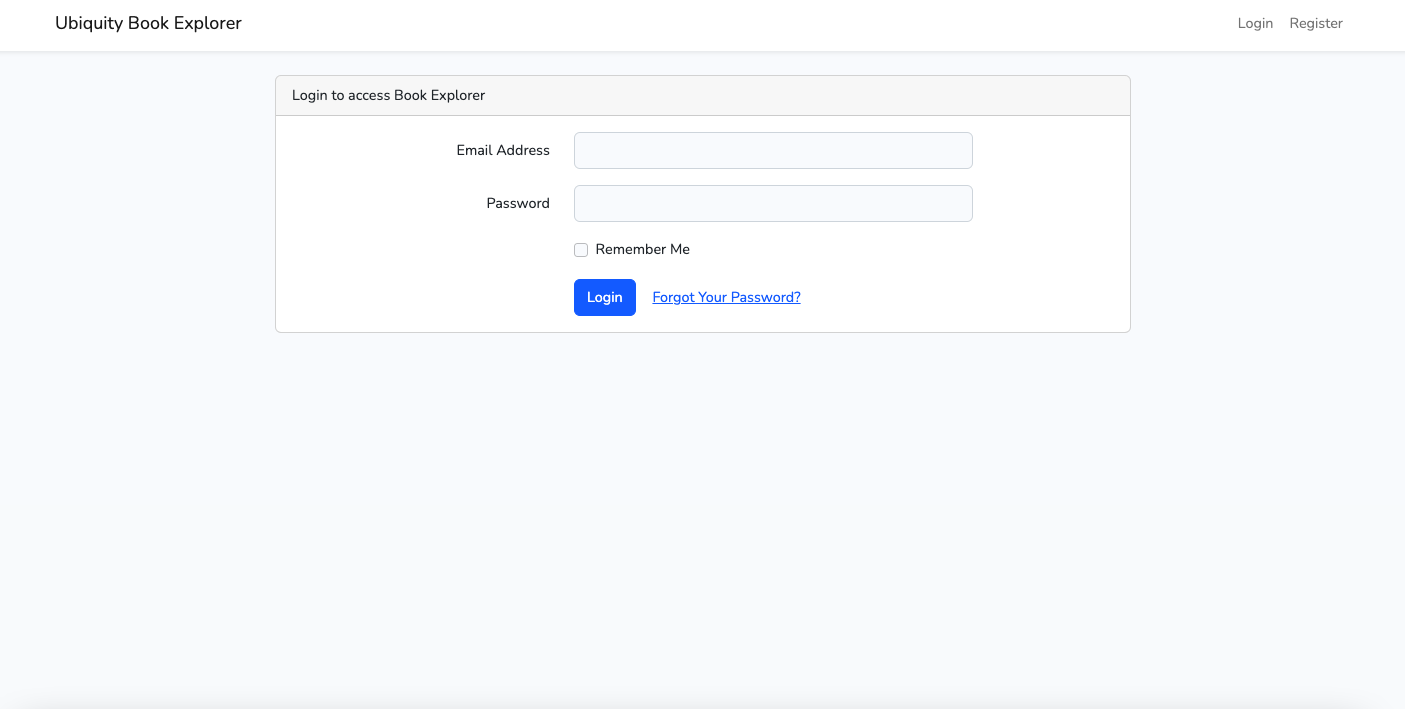
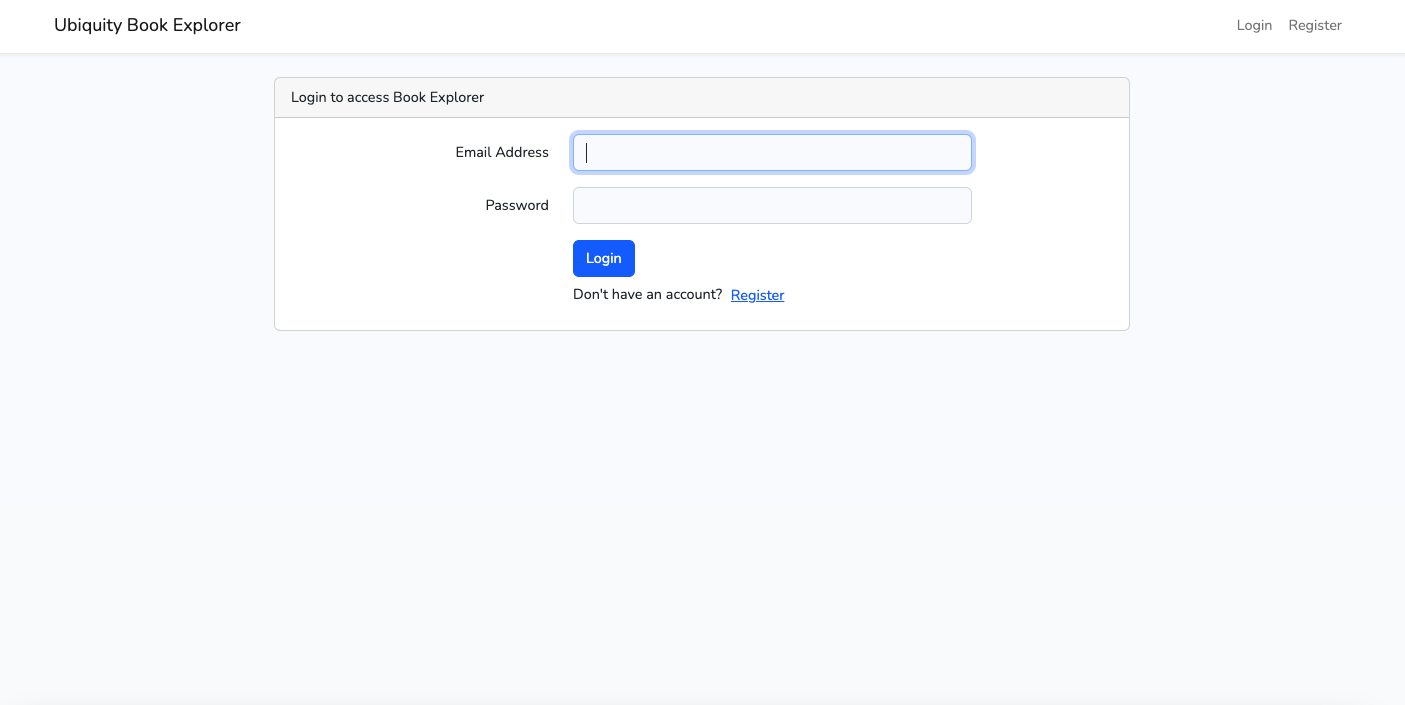
login and register with useful links

diff --git a/resources/views/auth/login.blade.php b/resources/views/auth/login.blade.php
@@ -39,29 +39,19 @@
                             </div>
                         </div>
 
-                        <div class="row mb-3">
-                            <div class="col-md-6 offset-md-4">
-                                <div class="form-check">
-                                    <input class="form-check-input" type="checkbox" name="remember" id="remember" {{ old('remember') ? 'checked' : '' }}>
-
-                                    <label class="form-check-label" for="remember">
-                                        {{ __('Remember Me') }}
-                                    </label>
-                                </div>
-                            </div>
-                        </div>
-
                         <div class="row mb-0">
                             <div class="col-md-8 offset-md-4">
                                 <button type="submit" class="btn btn-primary">
                                     {{ __('Login') }}
                                 </button>
-
-                                @if (Route::has('password.request'))
-                                    <a class="btn btn-link" href="{{ route('password.request') }}">
-                                        {{ __('Forgot Your Password?') }}
-                                    </a>
-                                @endif
+                            </div>
+                        </div>
+                        <div class="row mb-0">
+                            <div class="col-md-8 offset-md-4">
+                                Don't have an account?
+                                <a class="ps-1 btn btn-link" href="{{ route('register') }}">
+                                    Register
+                                </a>
                             </div>
                         </div>
                     </form>

diff --git a/resources/views/auth/register.blade.php b/resources/views/auth/register.blade.php
@@ -54,6 +54,15 @@
                                 </button>
                             </div>
                         </div>
+
+                        <div class="row mb-0">
+                            <div class="col-md-8 offset-md-4">
+                                Already have an account?
+                                <a class="ps-1 btn btn-link" href="{{ route('login') }}">
+                                    Login
+                                </a>
+                            </div>
+                        </div>
                     </form>
                 </div>
             </div>
